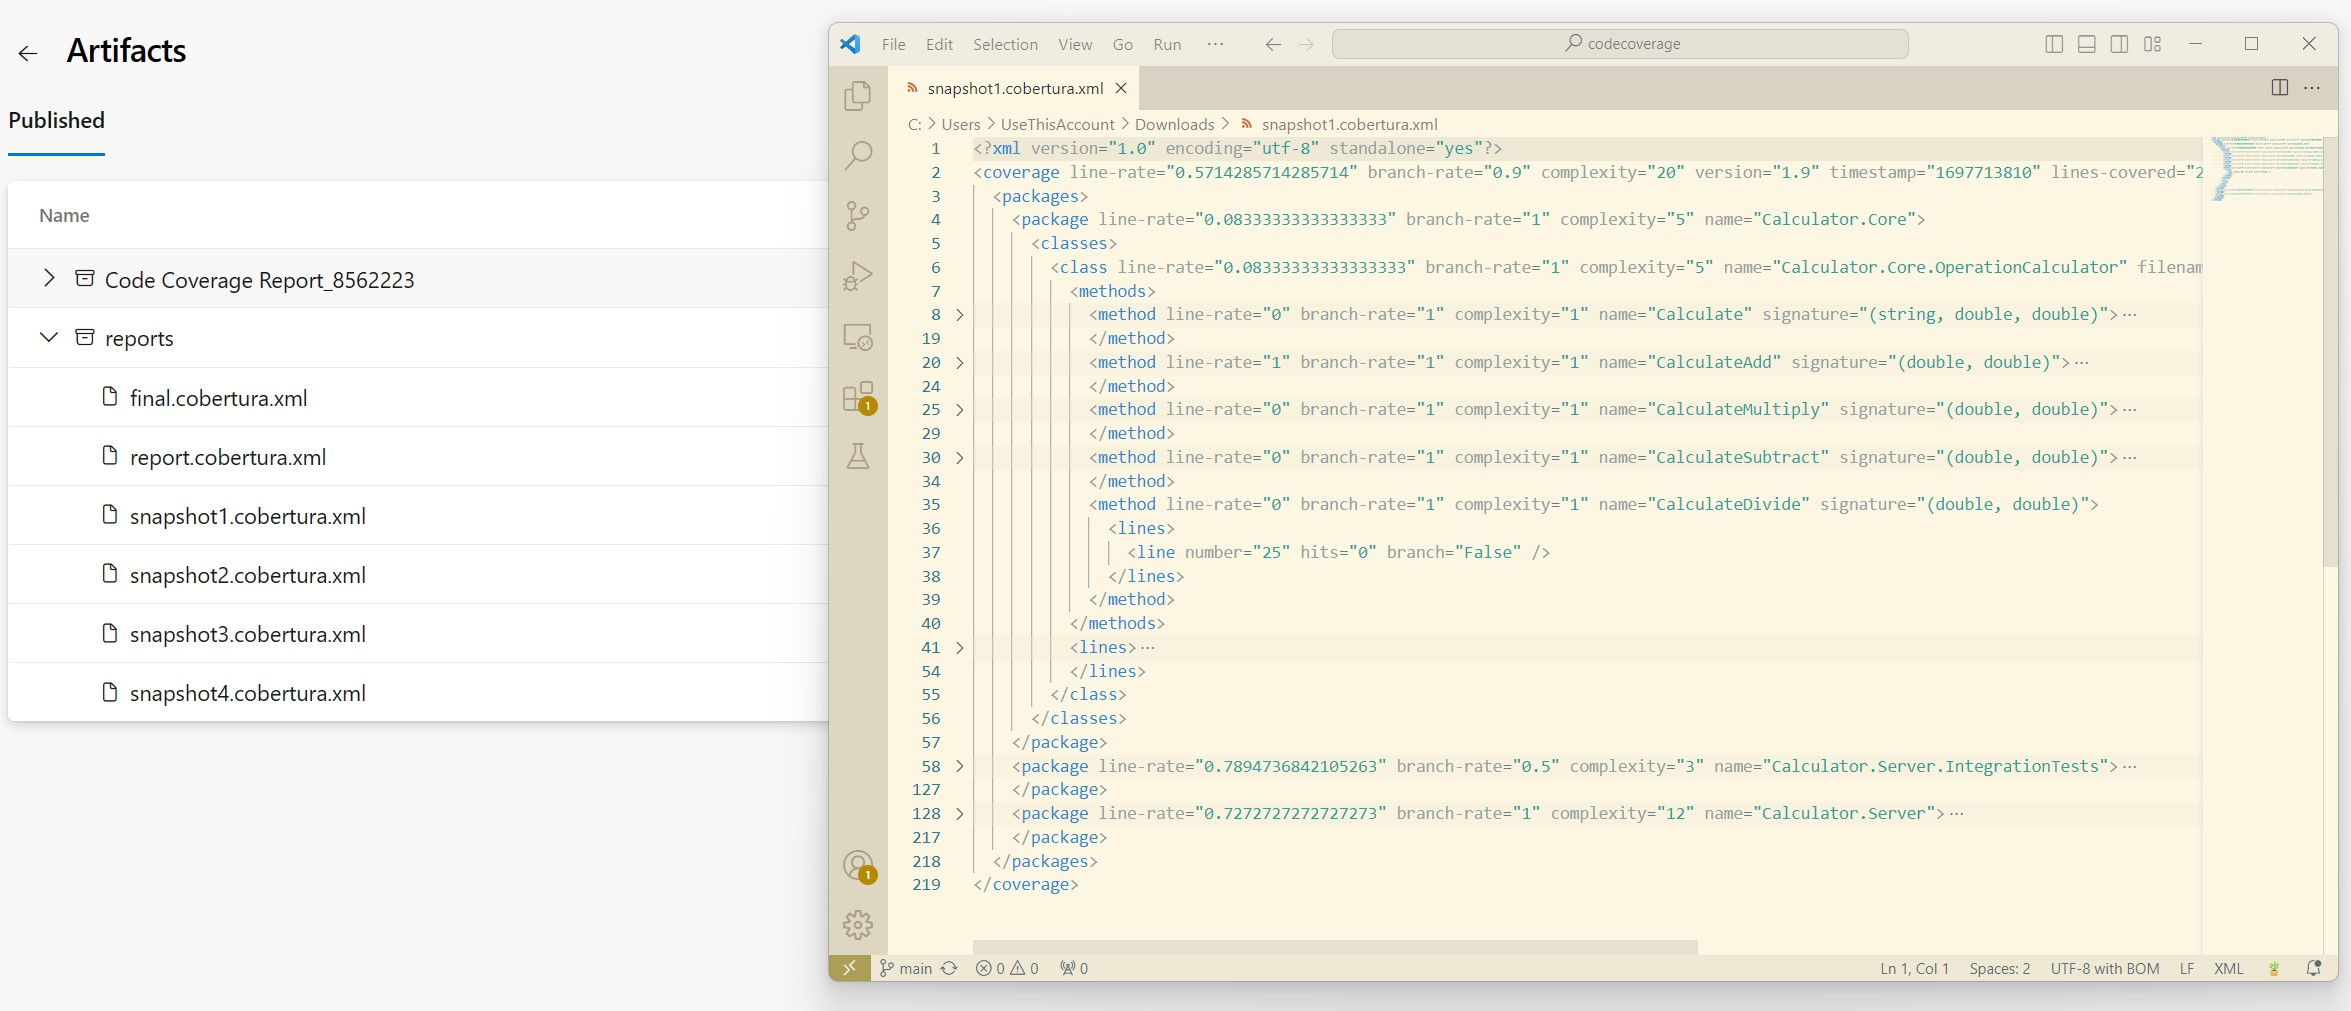
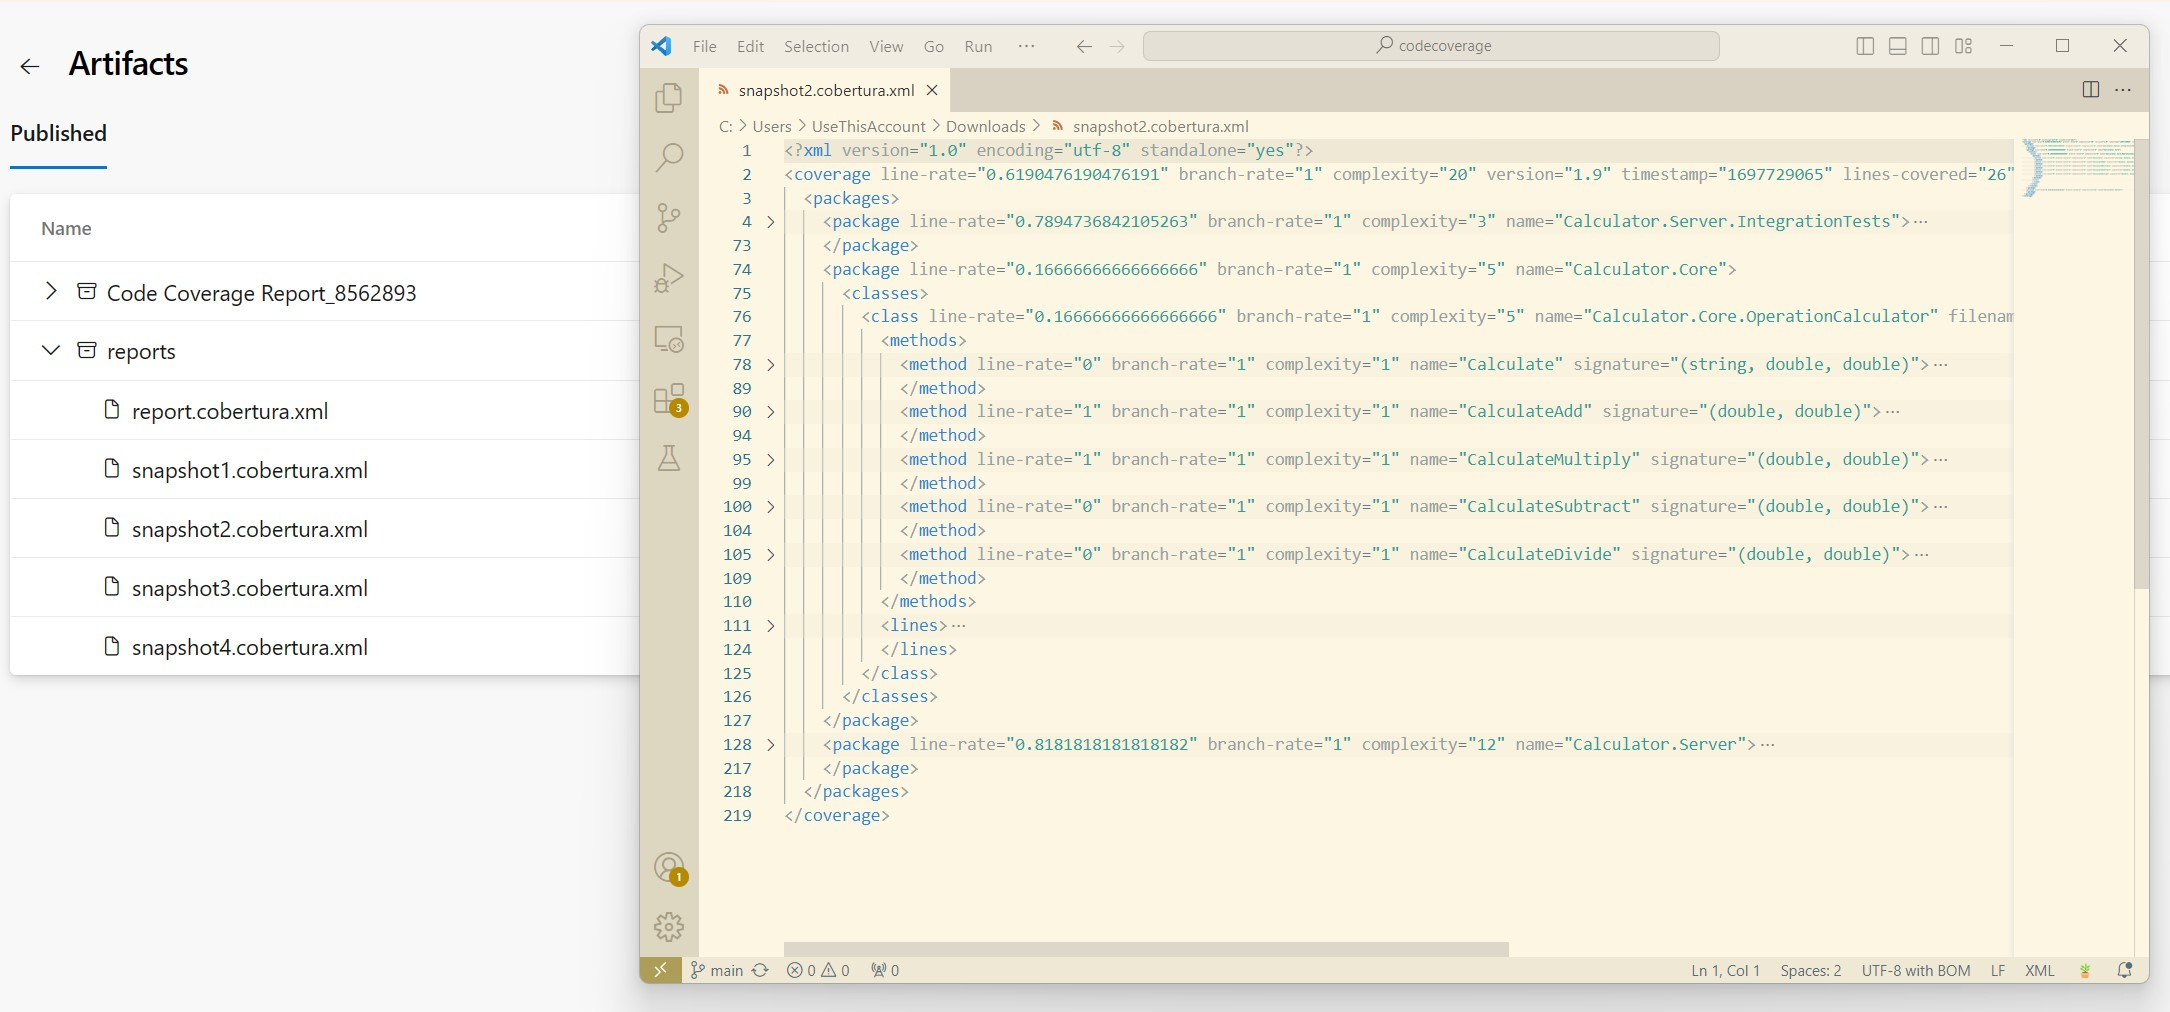
Scneario 17

diff --git a/samples/Calculator/scenarios/scenario17/README.md b/samples/Calculator/scenarios/scenario17/README.md
@@ -1,6 +1,6 @@
 # Scenario Description
 
-Collect code coverage for ASP.NET Core integration tests and take snapshots after each test. You can find here example how to collect coverage for server and tests if they are running in separate processes and server is started before tests execution. After each test we take snapshot of code coverage using `dotnet-coverage` tool (`snapshot` command). Each snapshot operation does not reset all coverage data. This is probably not real example but we just want to show you snapshot operation without reseting counters.
+Collect code coverage for ASP.NET Core integration tests and take snapshots after each test. You can find here example how to collect coverage for server and tests if they are running in separate processes and server is started before tests execution. After each test we take snapshot of code coverage using `dotnet-coverage` tool (`snapshot` command). Each snapshot operation does not reset all coverage data. This is probably not real example but we just want to show you snapshot operation without reseting counters. Note that with each snapshot taken code coverage should be increasing.
 
 # Collect code coverage using command line
 
@@ -127,73 +127,66 @@ steps:
 - task: Bash@3
   inputs:
     targetType: 'inline'
-    script: 'dotnet-coverage collect --output-format cobertura --output $(Agent.TempDirectory)/reports/final.cobertura.xml --session-id TagScenario16 "dotnet run --project $(projectPath) --no-build" &'
+    script: 'dotnet-coverage collect --output-format cobertura --output $(Agent.TempDirectory)/reports/report.cobertura.xml --session-id TagScenario17 "dotnet run --project $(projectPath) --no-build" &'
   displayName: 'start server under coverage'
 
 - task: Bash@3
   inputs:
     targetType: 'inline'
-    script: 'dotnet-coverage connect TagScenario16 "dotnet test --configuration $(buildConfiguration) --filter add --no-build --logger trx --results-directory $(Agent.TempDirectory)"'
+    script: 'dotnet-coverage connect TagScenario17 "dotnet test --configuration $(buildConfiguration) --filter add --no-build --logger trx --results-directory $(Agent.TempDirectory)"'
     workingDirectory: '$(Build.SourcesDirectory)/samples/Calculator/tests/Calculator.Server.IntegrationTests/'
   displayName: 'execute add integration tests'
 
 - task: Bash@3
   inputs:
     targetType: 'inline'
-    script: 'dotnet-coverage snapshot --reset --output $(Agent.TempDirectory)/reports/snapshot1.cobertura.xml TagScenario16'
+    script: 'dotnet-coverage snapshot --output $(Agent.TempDirectory)/reports/snapshot1.cobertura.xml TagScenario17'
   displayName: 'take snapshot 1'
 
 - task: Bash@3
   inputs:
     targetType: 'inline'
-    script: 'dotnet-coverage connect TagScenario16 "dotnet test --configuration $(buildConfiguration) --filter multiply --no-build --logger trx --results-directory $(Agent.TempDirectory)"'
+    script: 'dotnet-coverage connect TagScenario17 "dotnet test --configuration $(buildConfiguration) --filter multiply --no-build --logger trx --results-directory $(Agent.TempDirectory)"'
     workingDirectory: '$(Build.SourcesDirectory)/samples/Calculator/tests/Calculator.Server.IntegrationTests/'
   displayName: 'execute multiply integration tests'
 
 - task: Bash@3
   inputs:
     targetType: 'inline'
-    script: 'dotnet-coverage snapshot --reset --output $(Agent.TempDirectory)/reports/snapshot2.cobertura.xml TagScenario16'
+    script: 'dotnet-coverage snapshot --output $(Agent.TempDirectory)/reports/snapshot2.cobertura.xml TagScenario17'
   displayName: 'take snapshot 2'
 
 - task: Bash@3
   inputs:
     targetType: 'inline'
-    script: 'dotnet-coverage connect TagScenario16 "dotnet test --configuration $(buildConfiguration) --filter subtract --no-build --logger trx --results-directory $(Agent.TempDirectory)"'
+    script: 'dotnet-coverage connect TagScenario17 "dotnet test --configuration $(buildConfiguration) --filter subtract --no-build --logger trx --results-directory $(Agent.TempDirectory)"'
     workingDirectory: '$(Build.SourcesDirectory)/samples/Calculator/tests/Calculator.Server.IntegrationTests/'
   displayName: 'execute subtract integration tests'
 
 - task: Bash@3
   inputs:
     targetType: 'inline'
-    script: 'dotnet-coverage snapshot --reset --output $(Agent.TempDirectory)/reports/snapshot3.cobertura.xml TagScenario16'
+    script: 'dotnet-coverage snapshot --output $(Agent.TempDirectory)/reports/snapshot3.cobertura.xml TagScenario17'
   displayName: 'take snapshot 3'
 
 - task: Bash@3
   inputs:
     targetType: 'inline'
-    script: 'dotnet-coverage connect TagScenario16 "dotnet test --configuration $(buildConfiguration) --filter divide --no-build --logger trx --results-directory $(Agent.TempDirectory)"'
+    script: 'dotnet-coverage connect TagScenario17 "dotnet test --configuration $(buildConfiguration) --filter divide --no-build --logger trx --results-directory $(Agent.TempDirectory)"'
     workingDirectory: '$(Build.SourcesDirectory)/samples/Calculator/tests/Calculator.Server.IntegrationTests/'
   displayName: 'execute divide integration tests'
 
 - task: Bash@3
   inputs:
     targetType: 'inline'
-    script: 'dotnet-coverage snapshot --reset --output $(Agent.TempDirectory)/reports/snapshot4.cobertura.xml TagScenario16'
+    script: 'dotnet-coverage snapshot --output $(Agent.TempDirectory)/reports/snapshot4.cobertura.xml TagScenario17'
   displayName: 'take snapshot 4'
 
 - task: Bash@3
   inputs:
     targetType: 'inline'
-    script: 'dotnet-coverage shutdown TagScenario16'
+    script: 'dotnet-coverage shutdown TagScenario17'
   displayName: 'stop code coverage collection'
-
-- task: Bash@3
-  inputs:
-    targetType: 'inline'
-    script: 'dotnet-coverage merge --output-format cobertura --output report.cobertura.xml *.cobertura.xml'
-    workingDirectory: '$(Agent.TempDirectory)/reports/'
-  displayName: 'merge coverage results'
 
 - task: PublishTestResults@2
   inputs:

diff --git a/samples/Calculator/README.md b/samples/Calculator/README.md
@@ -27,3 +27,4 @@ Solution contains seven projects:
 14. [***Scenario 14*** Code coverage for ASP.NET Core integration tests](scenarios/scenario14/README.md)
 15. [***Scenario 15*** Code coverage for ASP.NET Core integration tests - coverage collection in server mode](scenarios/scenario15/README.md)
 16. [***Scenario 16*** Code coverage for ASP.NET Core integration tests - code coverage report per test](scenarios/scenario16/README.md)
+17. [***Scenario 17*** Code coverage for ASP.NET Core integration tests - snapshots without resetting counters](scenarios/scenario17/README.md)
